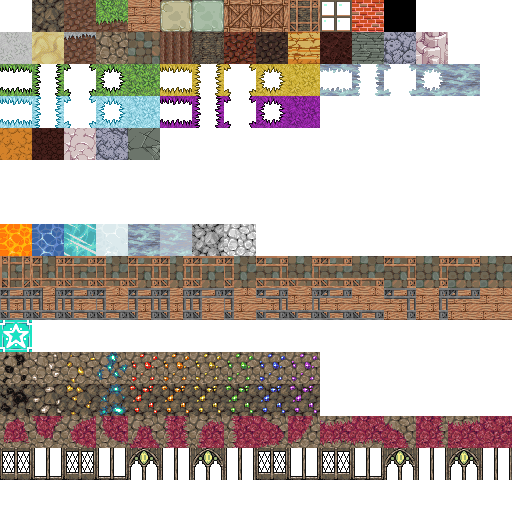
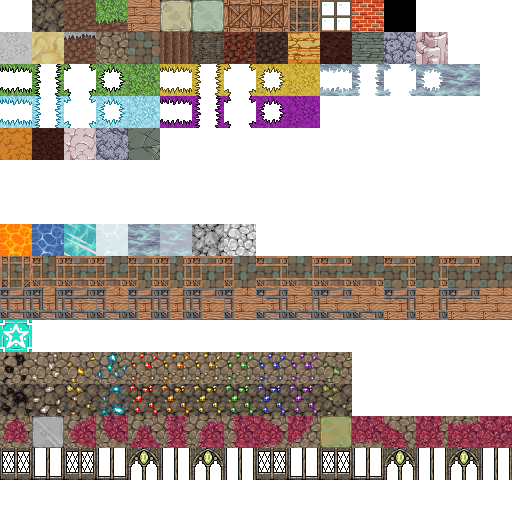
Add copper, associated resources, require smelting of iron

Changed region(s): [[0.625, 0.6875, 0.6875, 0.875], [0.0625, 0.8125, 0.125, 0.875]]

diff --git a/DwarfCorp/GameStates/Play/PlayState.cs b/DwarfCorp/GameStates/Play/PlayState.cs
@@ -1562,7 +1562,7 @@ namespace DwarfCorp.GameStates
                 ItemSource = (new Widget[] { icon_menu_WallTypes_Return }).Concat(
                         Library.EnumerateVoxelTypes()
                         .Where(voxel => voxel.IsBuildable)
-                        .Select(data => new FlatToolTray.Icon
+                        .Select(data => new FlatToolTray.Icon // Todo: Sort blocks we actually have the materials for to the front when menu is shown?
                         {
                             Tooltip = "Build " + data.Name,
                             Icon = new Gui.TileReference("voxels", data.ID),

diff --git a/DwarfCorp/Entities/Plants/Tree.cs b/DwarfCorp/Entities/Plants/Tree.cs
@@ -41,6 +41,7 @@ namespace DwarfCorp
             // Can these be spawned when the tree dies rather than when it is created?
             if (emitWood)
             {
+                // Todo: Check entity def for resource emitted. Stop auto generating wood types.
                 var wood = Library.CreateResourceType(Library.GetResourceType("Wood"));
                 wood.Name = String.Format("{0} Wood", Name.Split(' ').First());
                 wood.ShortName = wood.Name;

diff --git a/DwarfCorp/World/Economy/Resources/Resource.cs b/DwarfCorp/World/Economy/Resources/Resource.cs
@@ -99,7 +99,10 @@ namespace DwarfCorp
             Mana,
             Potion,
             Seed,
-            Slime
+            Slime,
+            CopperOre,
+            IronOre,
+            Iron
         }
 
         public Resource()
